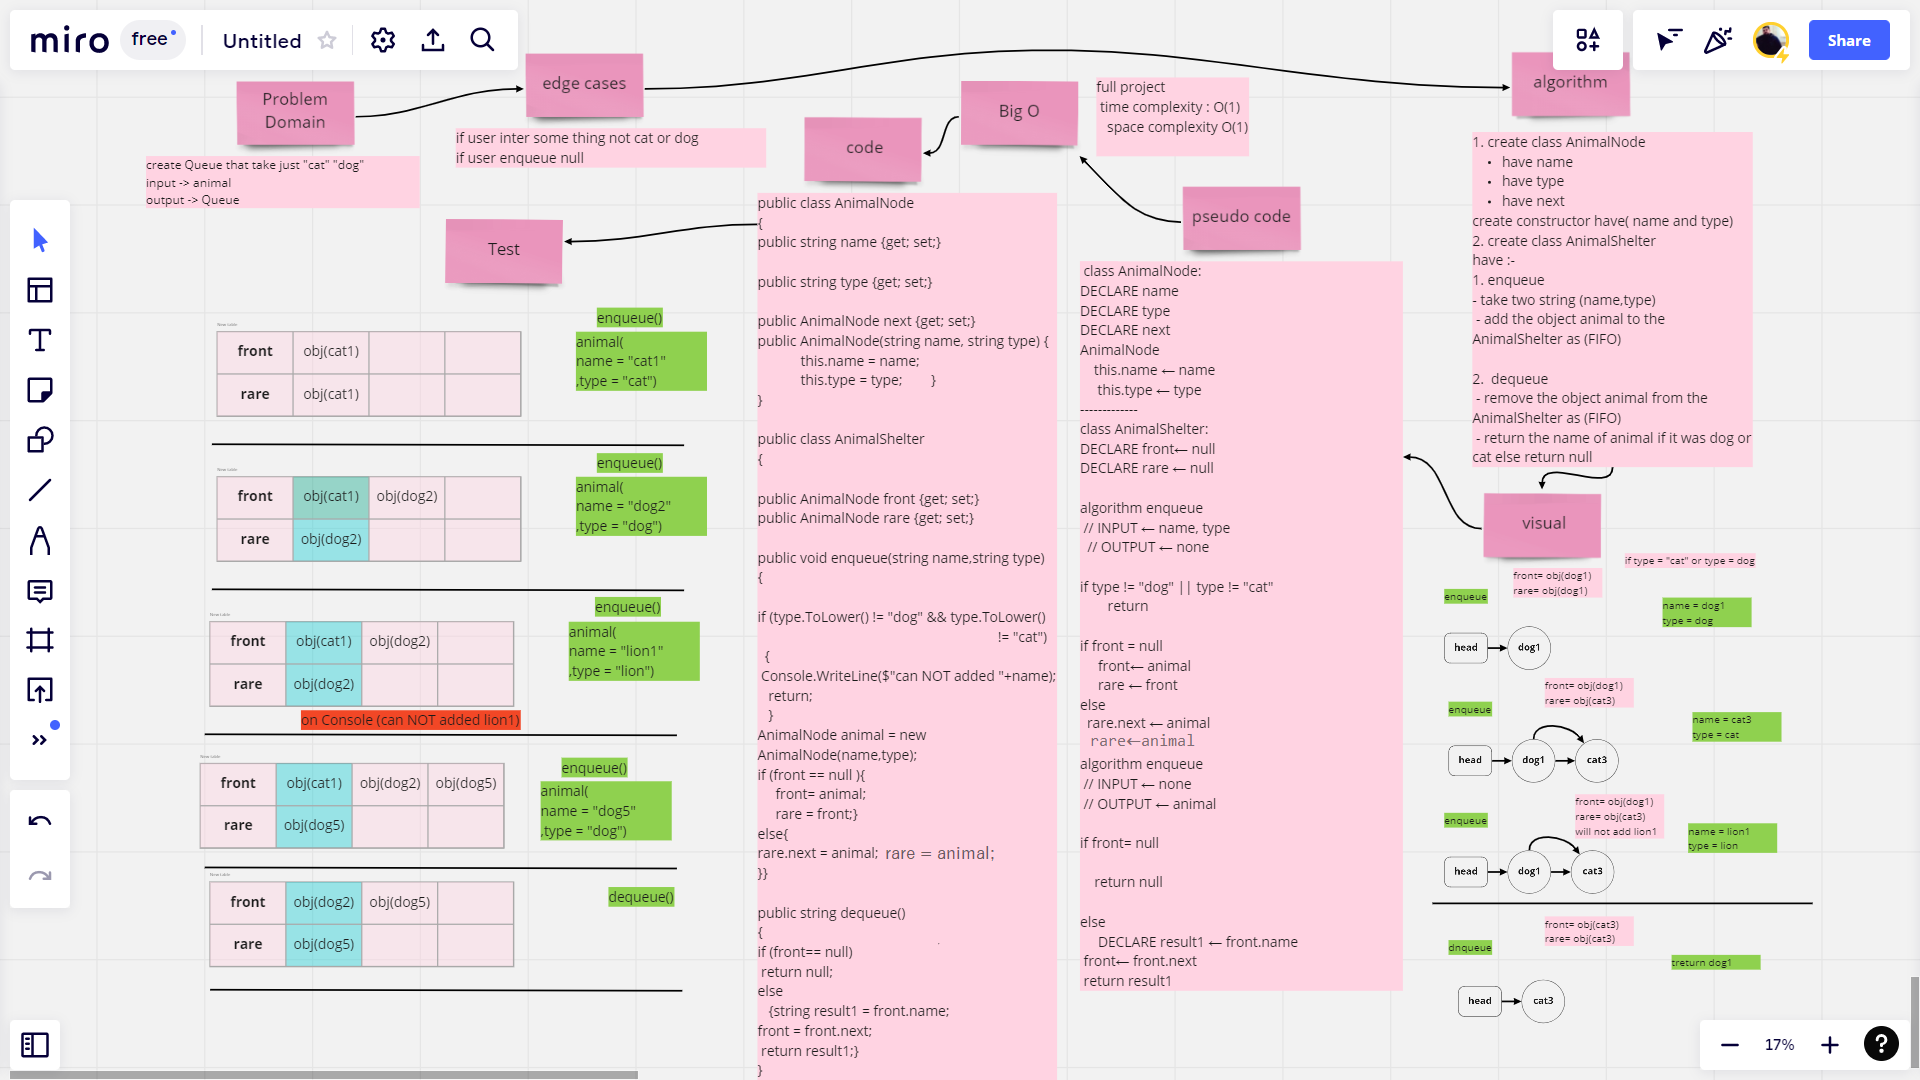
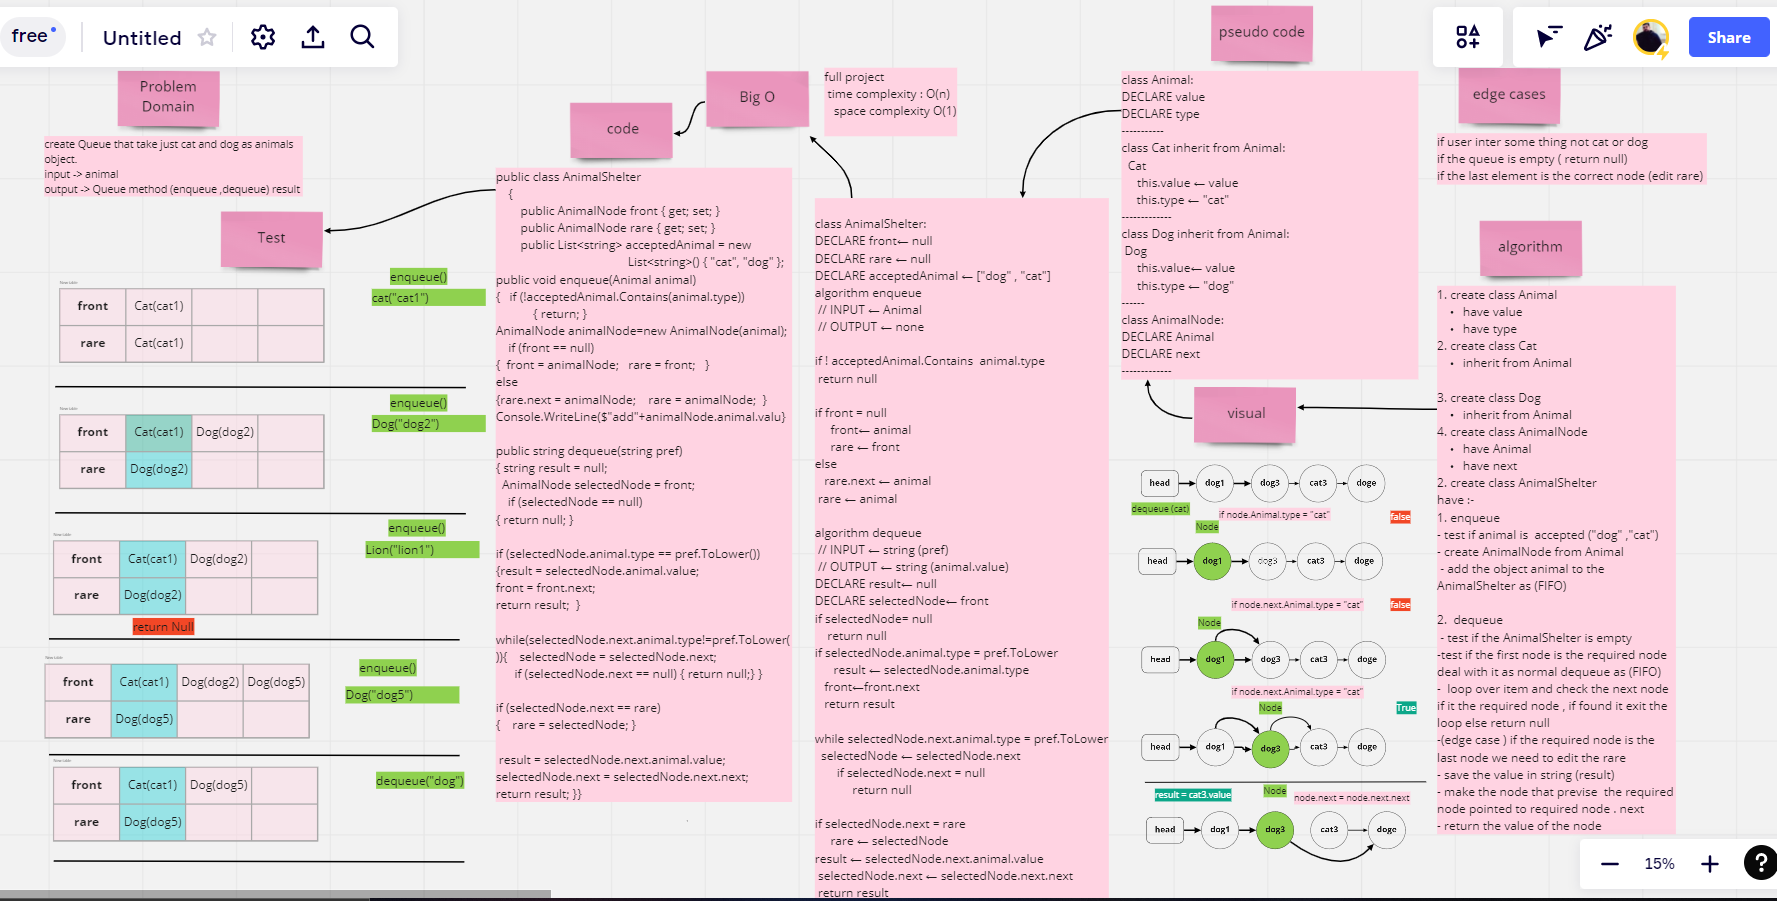
edit classes

diff --git a/TestProject1/StackAndQueueTest.cs b/TestProject1/StackAndQueueTest.cs
@@ -19,20 +19,23 @@ namespace TestProject1
         public void Class12_EnqeueuAnimalShelter()
         {
             AnimalShelter animalShelter = new AnimalShelter();
+            Cat cat = new Cat("cat1");
 
-            animalShelter.enqueue("cat1","cat");
-
-            Assert.Equal("cat1", animalShelter.front.name) ;
+            animalShelter.enqueue(cat);
+            Assert.Equal("cat1", animalShelter.front.animal.value) ;
         }
         [Fact]
         //Can successfully enqueue to AnimalShelter
         public void Class12_WrongEnqeueuAnimalShelter()
         {
             AnimalShelter animalShelter = new AnimalShelter();
+            Cat cat = new Cat("cat1");
+            Cat cat2 = new Cat("cat2");
 
-            animalShelter.enqueue("lion1", "lion");
+            animalShelter.enqueue(cat);
+            animalShelter.enqueue(cat2);
 
-            Assert.Null(animalShelter.front);
+            Assert.Null(animalShelter.dequeue("lion"));
         }
 
 
@@ -42,12 +45,18 @@ namespace TestProject1
         {
             AnimalShelter animalShelter = new AnimalShelter();
 
-            animalShelter.enqueue("cat1", "cat");
-            animalShelter.enqueue("cat2", "cat");
-            animalShelter.enqueue("cat3", "CAT");
-            animalShelter.enqueue("dog2", "Dog");
-            animalShelter.enqueue("dog5", "dog");
-            Assert.Equal("cat1", animalShelter.front.name);
+            Cat cat = new Cat("cat1");
+            Cat cat2 = new Cat("cat2");
+            Cat cat3 = new Cat("cat3");
+            Dog dog = new Dog("dog1");
+
+
+            animalShelter.enqueue(cat);
+            animalShelter.enqueue(cat2);
+            animalShelter.enqueue(cat3);
+            animalShelter.enqueue(dog);
+
+            Assert.Equal("cat1", animalShelter.front.animal.value);
         }
         [Fact]
         //Can successfully dequeue from AnimalShelter
@@ -55,10 +64,13 @@ namespace TestProject1
         {
             AnimalShelter animalShelter = new AnimalShelter();
 
-            animalShelter.enqueue("cat1", "cat");
-            animalShelter.enqueue("cat2", "cat");
+            Cat cat = new Cat("cat1");
+            Cat cat2 = new Cat("cat2");
 
-            Assert.Equal("cat1", animalShelter.dequeue());
+            animalShelter.enqueue(cat);
+            animalShelter.enqueue(cat2);
+
+            Assert.Equal("cat1", animalShelter.dequeue("cat"));
         }
         [Fact]
         //Can successfully dequeue empty AnimalShelter
@@ -68,7 +80,7 @@ namespace TestProject1
 
           
 
-            Assert.Null(animalShelter.dequeue());
+            Assert.Null(animalShelter.dequeue("cat"));
         }
 
         [Fact]
@@ -77,15 +89,25 @@ namespace TestProject1
         {
             AnimalShelter animalShelter = new AnimalShelter();
 
-            animalShelter.enqueue("cat1", "cat");
-            animalShelter.enqueue("cat2", "cat");
-            animalShelter.enqueue("cat3", "CAT");
-            animalShelter.enqueue("dog2", "Dog");
-            animalShelter.enqueue("dog5", "dog");
-            animalShelter.dequeue();
-            animalShelter.dequeue();
-            animalShelter.dequeue();
-            Assert.Equal("dog2", animalShelter.dequeue());
+            Cat cat = new Cat("cat1");
+            Cat cat2 = new Cat("cat2");
+
+            Cat cat3 = new Cat("cat3");
+            Dog dog = new Dog("dog1");
+            Cat cat4 = new Cat("cat4");
+            Dog dog2 = new Dog("dog2");
+
+            animalShelter.enqueue(cat);
+            animalShelter.enqueue(cat2);
+            animalShelter.enqueue(cat3);
+            animalShelter.enqueue(dog);
+            animalShelter.enqueue(cat4);
+            animalShelter.enqueue(dog2);
+
+            animalShelter.dequeue("cat");
+            animalShelter.dequeue("dog");
+            animalShelter.dequeue("cat");
+            Assert.Equal("dog2", animalShelter.dequeue("dog"));
         }
 
 

diff --git a/ConsoleApp1/CodeChallenge/stack-queue-animal-shelter/AnimalShelter.cs b/ConsoleApp1/CodeChallenge/stack-queue-animal-shelter/AnimalShelter.cs
@@ -10,42 +10,72 @@ namespace ConsoleApp1
     {
         public AnimalNode front { get; set; }
         public AnimalNode rare { get; set; }
-
-        public void enqueue(string name, string type)
+        public List<string> acceptedAnimal = new List<string>() { "cat", "dog" };
+        public void enqueue(Animal animal)
         {
-
-            if (type.ToLower() != "dog" && type.ToLower() != "cat")
+          
+            if (!acceptedAnimal.Contains(animal.type))
             {
-                Console.WriteLine($"can NOT added " + name);
                 return;
             }
+            AnimalNode animalNode = new AnimalNode(animal);
 
-
-            AnimalNode animal = new AnimalNode(name,type);
+           
+           
             if (front == null)
             {
-                front = animal;
+                front = animalNode;
                 rare = front;
             }
             else
             {
-                rare.next = animal;
-                rare = animal;
+                rare.next = animalNode;
+                rare = animalNode;
             }
-            Console.WriteLine($"added " + name);
+            Console.WriteLine($"added " + animalNode.animal.value);
         }
 
-        public string dequeue()
+        public string dequeue(string pref)
         {
-            if (front == null)
-                return null;
-            else
+            string result = null;
+           AnimalNode selectedNode = front;
+          
+            // if the queue is empty return null
+            if (selectedNode == null)
             {
-                string result1= front.name;
-                front = front.next;
-
-                return result1;
+                return null;
             }
+            //if the frirst element is the correct node deal with it as normal Queue
+            if (selectedNode.animal.type == pref.ToLower())
+            {
+                result = selectedNode.animal.value;
+                front = front.next;
+                return result; 
+            }
+            //if the frist element is Not the correct node, loop over items and check if the NEXT value is the correct node
+            
+            
+            while (selectedNode.next.animal.type != pref.ToLower())
+            {
+
+
+                selectedNode = selectedNode.next;
+                // if the result is not found in the queue
+                if (selectedNode.next == null)
+                    return null;
+            }
+
+            // if the last element is the correct node
+            if (selectedNode.next == rare)
+            {
+                rare = selectedNode;
+            }
+            //remove the node from the queue by making the previous node not point to the correct node but to the Next node from the correct node
+            result = selectedNode.next.animal.value;
+            selectedNode.next = selectedNode.next.next;
+         
+                return result;
+          
         }
     }
 }

diff --git a/ConsoleApp1/Program.cs b/ConsoleApp1/Program.cs
@@ -211,29 +211,40 @@ namespace ConsoleApp1
 
             #region Class 13: stack-queue-brackets
 
-            Console.WriteLine(validateBrackets("sds[]"));
-            Console.WriteLine(validateBrackets("{}(){}"));
-            Console.WriteLine(validateBrackets("()[[Extra Characters]]"));
-            Console.WriteLine(validateBrackets("{(})"));
+            //Console.WriteLine(validateBrackets("sds[]"));
+            //Console.WriteLine(validateBrackets("{}(){}"));
+            //Console.WriteLine(validateBrackets("()[[Extra Characters]]"));
+            //Console.WriteLine(validateBrackets("{(})"));
 
             #endregion
 
             #region Class 12: stack-queue-animal-shelter
 
-            //AnimalShelter animalShelter = new AnimalShelter();
-            //Console.WriteLine( animalShelter.dequeue());
+            AnimalShelter animalShelter = new AnimalShelter();
+            Console.WriteLine(animalShelter.dequeue("cat"));
+            Cat cat = new Cat("cat1");
+            Cat cat2 = new Cat("cat2");
+            Dog dog = new Dog("dog1");
+            Cat cat5 = new Cat("cat5");
+    
 
-            //animalShelter.enqueue("cat1", "cat");
 
-            //animalShelter.enqueue("cat2", "cat");
+           
 
-            //animalShelter.enqueue("dog2", "cat");
+            animalShelter.enqueue(cat);
+           
 
+            animalShelter.enqueue(cat2);
+            animalShelter.enqueue(dog);
+            Console.WriteLine(animalShelter.dequeue("Lion"));
+           animalShelter.enqueue(cat5);
 
-            //animalShelter.enqueue("lion2", "lion");
-            //animalShelter.enqueue("cat5", "CAT");
-            //Console.WriteLine(animalShelter.dequeue());
-            //Console.WriteLine(animalShelter.dequeue());
+           
+           
+            Console.WriteLine(animalShelter.dequeue("cat"));
+            Console.WriteLine(animalShelter.dequeue("cat"));
+            //Console.WriteLine(animalShelter.dequeue("cat"));
+            //Console.WriteLine(animalShelter.dequeue("dog"));
             #endregion
 
             #region Class 11: stack-queue-pseudo

diff --git a/ConsoleApp1/CodeChallenge/stack-queue-animal-shelter/AnimalNode.cs b/ConsoleApp1/CodeChallenge/stack-queue-animal-shelter/AnimalNode.cs
@@ -1,0 +1,20 @@
+using System;
+using System.Collections.Generic;
+using System.Linq;
+using System.Text;
+using System.Threading.Tasks;
+
+namespace ConsoleApp1
+{
+   public class AnimalNode
+    {
+        public Animal animal { get; set; }
+
+        public AnimalNode next { get; set; }
+
+        public AnimalNode(Animal animal) {
+
+            this.animal = animal;
+        }
+    }
+}

diff --git a/ConsoleApp1/CodeChallenge/stack-queue-animal-shelter/Dog.cs b/ConsoleApp1/CodeChallenge/stack-queue-animal-shelter/Dog.cs
@@ -6,16 +6,15 @@ using System.Threading.Tasks;
 
 namespace ConsoleApp1
 {
-   public class Animal
+    public class Dog : Animal
     {
-        public string value { get; set; }
 
-        public string type { get; set; }
+      public  Dog(string name)
+        {
 
-    
+            this.value = name;
+            this.type = "dog";
 
-
+        }
     }
-
-
 }

diff --git a/ConsoleApp1/CodeChallenge/stack-queue-animal-shelter/Cat.cs b/ConsoleApp1/CodeChallenge/stack-queue-animal-shelter/Cat.cs
@@ -6,16 +6,16 @@ using System.Threading.Tasks;
 
 namespace ConsoleApp1
 {
-   public class Animal
+  public  class Cat : Animal
     {
-        public string value { get; set; }
 
-        public string type { get; set; }
+       public Cat(string name) {
 
-    
+            this.value = name;
+            this.type = "cat";
 
 
+
+        }
     }
-
-
 }

diff --git a/ConsoleApp1/CodeChallenge/stack-and-queue/Queue.cs b/ConsoleApp1/CodeChallenge/stack-and-queue/Queue.cs
@@ -73,6 +73,7 @@ namespace ConsoleApp1
         {
             if (isEmpty())
             {
+            
                 return "Queue is empty !!";
             }
 

diff --git a/read/Class12_stack-queue-animal-shelter.md b/read/Class12_stack-queue-animal-shelter.md
@@ -1,11 +1,11 @@
 # Challenge Summary :file_folder:
-create Queue that take just "cat"and "dog" as animals object.
+create Queue that take just cat and dog as animals object.
 
 ## Whiteboard Process  :notebook:
 ![img](../image/Class12/Class12_WB.PNG)
 
 ## Approach & Efficiency :envelope:
-using the same Queue class methods and eidt it as the requerment 
+using the Queue class methods and eidt it as the requerment to accepted Cat and Dog object just 
 ## Solution :beetle:
 ![img](../image/Class12/run_12.PNG)
 ## TEST :notebook:
